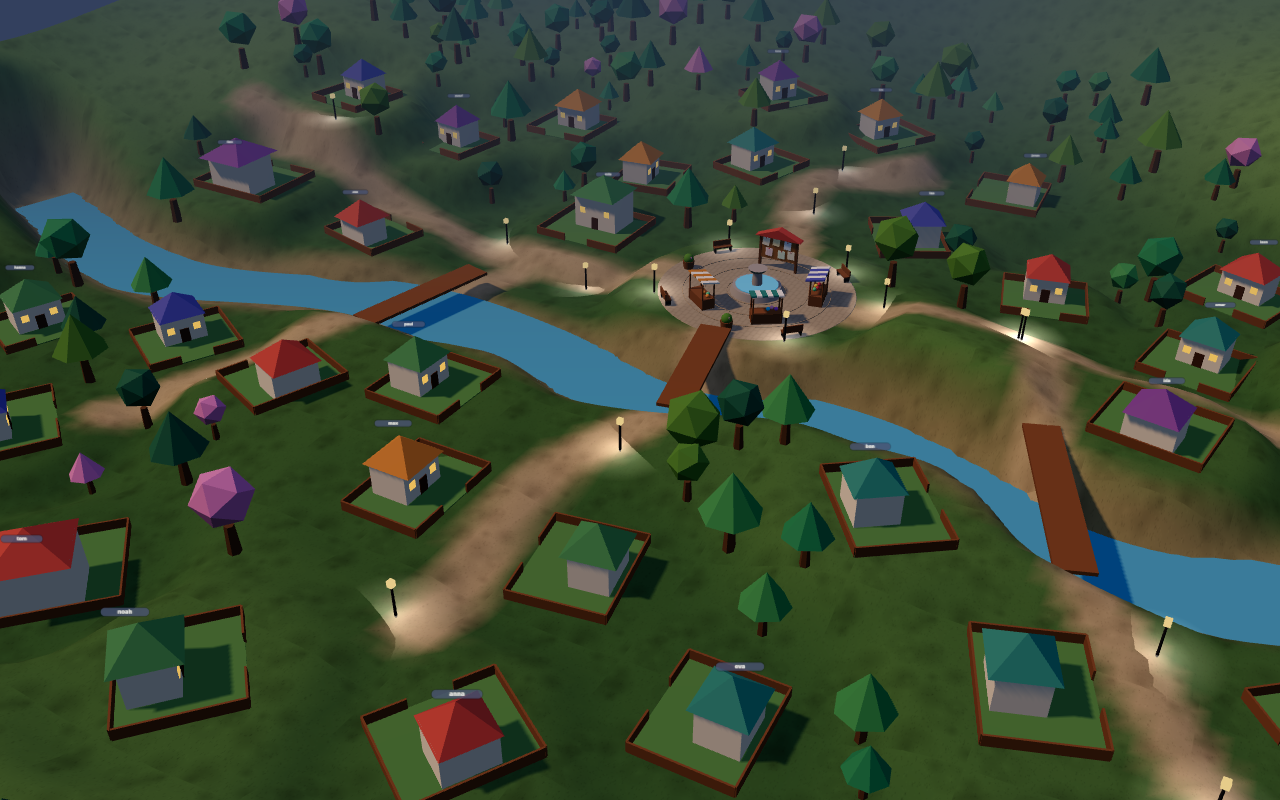
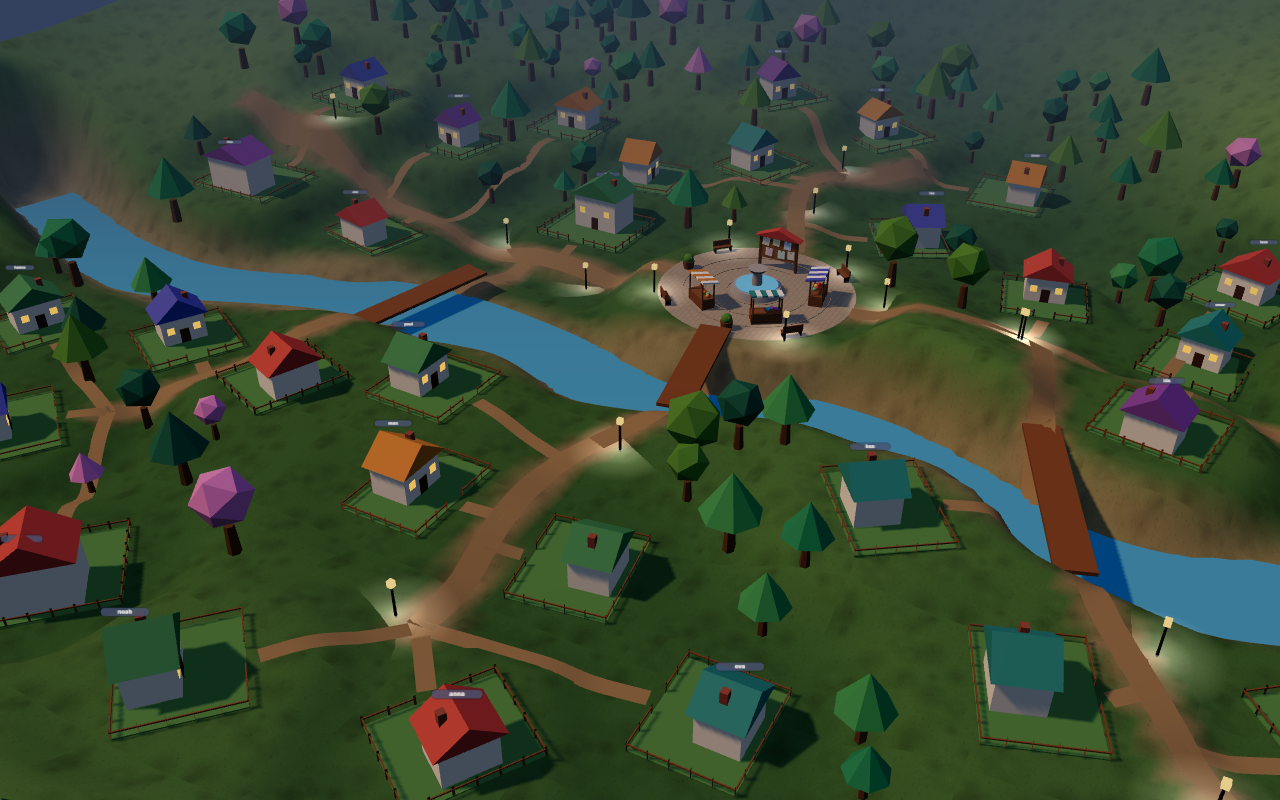
Stufe 1b L.5 Teil und Wege: Satteldach, Zaun mit Tor, Gartenweg, dunklere Erdwege
- render/house.ts: Satteldach mit Überstand und Schornstein, Zaun aus Pfosten und Latte mit 1,6 m Tor, Gartenweg vom Tor zur Straße
- Wege: dunkler, 1,6 m breit, mit Erdtextur (dirtTexture)
- 220 Vitest-Tests grün; Galerie: 30 Bilder neu

diff --git a/web/src/render/village.ts b/web/src/render/village.ts
@@ -9,7 +9,9 @@ import type { Point2 } from '../world/geometry';
 import { laneDistance } from '../world/scatter';
 import { buildNature } from './nature';
 import { buildPlaza } from './plaza';
-import { grassTexture } from './textures';
+import { dirtTexture, grassTexture } from './textures';
+import { chimney, fenceGeometry, gableRoof, gardenPathGeometry } from './house';
+import { mergeGeometries } from 'three/addons/utils/BufferGeometryUtils.js';
 
 const MAT = {
   ground: new THREE.MeshStandardMaterial({ vertexColors: true, flatShading: true, roughness: 0.9 }),
@@ -77,7 +79,8 @@ function terrainMesh(layout: Layout): THREE.Mesh {
   const low = new THREE.Color('#4e7a45');
   const high = new THREE.Color('#7aa35c');
   const bank = new THREE.Color('#a99b72');
-  const pathCol = new THREE.Color('#c9b48c');
+  // darker, earthier path colour; paths are narrower than before (cozy citybuilder look)
+  const pathCol = new THREE.Color('#a8926c');
   const tmp = new THREE.Color();
   const t = layout.terrain;
   for (let i = 0; i < pos.count; i++) {
@@ -89,7 +92,7 @@ function terrainMesh(layout: Layout): THREE.Mesh {
     const rd = t.riverDistance(x, z);
     tmp.lerp(bank, Math.min(1, Math.max(0, (6.5 - rd) / 2.5)) * 0.85);
     // paths painted into the ground: soft edge, no floating strip (review befund 4)
-    const onPath = Math.min(1, Math.max(0, (2.4 - laneDistance(layout, x, z)) / 1.2));
+    const onPath = Math.min(1, Math.max(0, (1.7 - laneDistance(layout, x, z)) / 0.8));
     tmp.lerp(pathCol, onPath);
     col[i * 3] = tmp.r;
     col[i * 3 + 1] = tmp.g;
@@ -205,30 +208,16 @@ function plotGroup(p: Plot, member: VillageMember | undefined, own: boolean): TH
     win.position.set(wx, bh * 0.55, front);
     house.add(win);
   }
-  const roofMat = new THREE.MeshStandardMaterial({
-    color: ROOF_COLORS[p.index % ROOF_COLORS.length],
-    flatShading: true,
-    roughness: 0.8,
-  });
-  const roof = new THREE.Mesh(new THREE.ConeGeometry(Math.max(bw, bd) * 0.75, 1.6, 4), roofMat);
-  roof.position.y = bh + 0.8;
-  roof.rotation.y = Math.PI / 4;
-  roof.castShadow = true;
+  const roof = gableRoof(bw, bd, 1.3 + ((p.index * 13) % 5) * 0.1, ROOF_COLORS[p.index % ROOF_COLORS.length]);
+  roof.position.y = bh;
   house.add(roof);
+  house.add(chimney(bw, bh, 1.3));
   g.add(house);
 
-  // fence along the front and sides, gate at the front
-  const fenceH = 0.7;
-  const addFence = (x: number, z: number, w: number, d: number) => {
-    const f = new THREE.Mesh(new THREE.BoxGeometry(w, fenceH, d), MAT.wood);
-    f.position.set(x, fenceH / 2, z);
-    g.add(f);
-  };
-  addFence(0, -p.d / 2, p.w, 0.12);
-  addFence(-p.w / 2, 0, 0.12, p.d);
-  addFence(p.w / 2, 0, 0.12, p.d);
-  addFence(-p.w / 4 - 0.6, p.d / 2, p.w / 2 - 1.2, 0.12);
-  addFence(p.w / 4 + 0.6, p.d / 2, p.w / 2 - 1.2, 0.12);
+  // post-and-rail fence with a 1.6 m gate in front, merged into one mesh (LOOK §6)
+  const fence = new THREE.Mesh(fenceGeometry(p.w, p.d), MAT.wood);
+  fence.castShadow = true;
+  g.add(fence);
 
   return g;
 }
@@ -247,7 +236,27 @@ export function buildVillage(
   root.add(terrainMesh(layout));
   root.add(riverMesh(layout.terrain.river));
 
-  // paths are painted into the terrain (see terrainMesh), so they need no floating strips
+  // lanes: a thin dirt strip on the ground (1.6 m), textured, lifted 5 cm; the colour in the
+  // terrain (see terrainMesh) underneath matches, so the edge is soft
+  const dirt = new THREE.MeshStandardMaterial({
+    map: dirtTexture(),
+    color: '#b8a07a',
+    roughness: 0.95,
+    polygonOffset: true,
+    polygonOffsetFactor: -2,
+    polygonOffsetUnits: -4,
+  });
+  for (const pts of layout.map.lanes) {
+    const curve = new THREE.CatmullRomCurve3(
+      pts.map((p) => new THREE.Vector3(p.x, 0, p.z)),
+      false,
+      'centripetal',
+    );
+    const samples = curve
+      .getSpacedPoints(Math.ceil(curve.getLength() / 0.7))
+      .map((v) => ({ x: v.x, z: v.z }));
+    root.add(ribbon(samples, 1.6, (x, z) => layout.terrain.groundHeight(x, z) + 0.05, dirt));
+  }
 
   // plaza: paving, fountain, quest board, stalls, benches (render/plaza.ts)
   root.add(buildPlaza(layout));
@@ -264,6 +273,13 @@ export function buildVillage(
   for (const p of layout.plots) {
     root.add(plotGroup(p, byPlot.get(p.index), p.index === ownPlotIndex));
   }
+  // garden paths from each gate to its lane: one merged mesh for the whole village
+  const gardens = layout.plots.map((p) =>
+    gardenPathGeometry(p.gate, p.link, 1.0, (x, z) => layout.terrain.groundHeight(x, z)),
+  );
+  const gardenMesh = new THREE.Mesh(mergeGeometries(gardens), dirt);
+  gardenMesh.receiveShadow = true;
+  root.add(gardenMesh);
   root.add(buildNature(layout));
   return root;
 }

diff --git a/web/src/render/house.ts b/web/src/render/house.ts
@@ -1,0 +1,130 @@
+/**
+ * House parts (LOOK §6): gable roof with overhang and chimney, post-and-rail fence with a 1.6 m
+ * gate, and the garden path from the gate to the lane. Placeholder geometry; merged per plot so
+ * that a village of 34 plots needs few draw calls.
+ */
+import * as THREE from 'three';
+import { mergeGeometries } from 'three/addons/utils/BufferGeometryUtils.js';
+
+const FENCE_HEIGHT = 0.7;
+const POST_STEP = 1.2;
+const GATE_HALF = 0.8; // 1.6 m opening in the middle of the front
+
+/** Gable roof: a triangle prism along z, with 0.35 m overhang on both sides. */
+export function gableRoof(bw: number, bd: number, rise: number, colour: string): THREE.Mesh {
+  const half = bw / 2 + 0.35;
+  const shape = new THREE.Shape();
+  shape.moveTo(-half, 0);
+  shape.lineTo(0, rise);
+  shape.lineTo(half, 0);
+  shape.lineTo(-half, 0);
+  const depth = bd + 0.6;
+  const geo = new THREE.ExtrudeGeometry(shape, { depth, bevelEnabled: false });
+  geo.translate(0, 0, -depth / 2);
+  const mesh = new THREE.Mesh(
+    geo,
+    new THREE.MeshStandardMaterial({ color: colour, roughness: 0.8, flatShading: true }),
+  );
+  mesh.castShadow = true;
+  return mesh;
+}
+
+/** Chimney on one roof slope (LOOK §6: #9a5a48, 0,42 x 1,0). */
+export function chimney(bw: number, bh: number, rise: number): THREE.Mesh {
+  const mesh = new THREE.Mesh(
+    new THREE.BoxGeometry(0.42, 1.0, 0.42),
+    new THREE.MeshStandardMaterial({ color: '#9a5a48', roughness: 0.9 }),
+  );
+  mesh.position.set(bw * 0.25, bh + rise * 0.5 + 0.2, 0);
+  mesh.castShadow = true;
+  return mesh;
+}
+
+/** A box between two ground points, centred on the segment, lifted by `y` (merged later). */
+function beam(
+  ax: number,
+  az: number,
+  bx: number,
+  bz: number,
+  width: number,
+  height: number,
+  y: number,
+): THREE.BufferGeometry {
+  const dx = bx - ax;
+  const dz = bz - az;
+  const len = Math.hypot(dx, dz);
+  const geo = new THREE.BoxGeometry(width, height, len);
+  geo.rotateY(Math.atan2(dx, dz));
+  geo.translate((ax + bx) / 2, y, (az + bz) / 2);
+  return geo;
+}
+
+/**
+ * Fence around a plot in plot-local coordinates: front side with the gate opening, back and sides
+ * closed. Posts every 1.2 m and one rail at 0.5 m (LOOK §6: never a solid wall).
+ */
+export function fenceGeometry(w: number, d: number): THREE.BufferGeometry {
+  const runs: Array<[number, number, number, number]> = [
+    [-w / 2, d / 2, -GATE_HALF, d / 2], // front, left of the gate
+    [GATE_HALF, d / 2, w / 2, d / 2], // front, right of the gate
+    [-w / 2, -d / 2, w / 2, -d / 2], // back
+    [-w / 2, -d / 2, -w / 2, d / 2], // left side
+    [w / 2, -d / 2, w / 2, d / 2], // right side
+  ];
+  const parts: THREE.BufferGeometry[] = [];
+  for (const [ax, az, bx, bz] of runs) {
+    const len = Math.hypot(bx - ax, bz - az);
+    const steps = Math.max(1, Math.round(len / POST_STEP));
+    for (let i = 0; i <= steps; i++) {
+      const t = i / steps;
+      const x = ax + (bx - ax) * t;
+      const z = az + (bz - az) * t;
+      parts.push(beam(x, z, x, z, 0.13, FENCE_HEIGHT, FENCE_HEIGHT / 2));
+    }
+    parts.push(beam(ax, az, bx, bz, 0.07, 0.08, 0.5));
+  }
+  return mergeGeometries(parts);
+}
+
+/**
+ * Garden path as a flat ribbon from `from` to `to` (world coordinates), following the ground.
+ * Returned as one geometry so that all garden paths of a village merge into one mesh.
+ */
+export function gardenPathGeometry(
+  from: { x: number; z: number },
+  to: { x: number; z: number },
+  width: number,
+  heightAt: (x: number, z: number) => number,
+): THREE.BufferGeometry {
+  const steps = Math.max(2, Math.round(Math.hypot(to.x - from.x, to.z - from.z) / 0.8));
+  const verts: number[] = [];
+  const idx: number[] = [];
+  const dx = to.x - from.x;
+  const dz = to.z - from.z;
+  const l = Math.hypot(dx, dz) || 1;
+  const nx = -dz / l;
+  const nz = dx / l;
+  for (let i = 0; i <= steps; i++) {
+    const t = i / steps;
+    const cx = from.x + dx * t;
+    const cz = from.z + dz * t;
+    const h = heightAt(cx, cz) + 0.05;
+    verts.push(
+      cx + (nx * width) / 2,
+      h,
+      cz + (nz * width) / 2,
+      cx - (nx * width) / 2,
+      h,
+      cz - (nz * width) / 2,
+    );
+    if (i > 0) {
+      const a = (i - 1) * 2;
+      idx.push(a, a + 2, a + 1, a + 1, a + 2, a + 3);
+    }
+  }
+  const geo = new THREE.BufferGeometry();
+  geo.setAttribute('position', new THREE.Float32BufferAttribute(verts, 3));
+  geo.setIndex(idx);
+  geo.computeVertexNormals();
+  return geo;
+}

diff --git a/web/src/render/textures.ts b/web/src/render/textures.ts
@@ -79,3 +79,23 @@ export const pavingTexture = (): THREE.CanvasTexture =>
       cx.fillRect(rnd() * 256, rnd() * 256, 3, 3);
     }
   });
+
+/** Dirt path: packed earth with darker speckles and a few pebbles, for the lanes and garden paths. */
+export const dirtTexture = (): THREE.CanvasTexture =>
+  canvasTexture(256, (cx, rnd) => {
+    cx.fillStyle = '#d6d0c4';
+    cx.fillRect(0, 0, 256, 256);
+    for (let i = 0; i < 900; i++) {
+      cx.fillStyle = rnd() < 0.6 ? 'rgba(90,70,40,0.18)' : 'rgba(255,255,255,0.20)';
+      const r = 0.6 + rnd() * 1.8;
+      cx.beginPath();
+      cx.arc(rnd() * 256, rnd() * 256, r, 0, Math.PI * 2);
+      cx.fill();
+    }
+    for (let i = 0; i < 26; i++) {
+      cx.fillStyle = 'rgba(120,110,100,0.35)';
+      cx.beginPath();
+      cx.ellipse(rnd() * 256, rnd() * 256, 2 + rnd() * 2, 1.5 + rnd(), rnd() * Math.PI, 0, Math.PI * 2);
+      cx.fill();
+    }
+  });

diff --git a/docs/PLAN.md b/docs/PLAN.md
@@ -207,3 +207,5 @@ Ziel: Schüler kaufen Deko und gestalten ihr Grundstück; Mitschüler sehen es.
 | 17.10.2026 | Galerie | 30 Bilder neu, Stand mit Bäumen und Laternen, siehe `Konzept/Galerie/2026-10-17/`. Draw Calls der Übersicht bei rund 400 (Welt ~240), Ziel < 60 bleibt L.9 |
 | 17.10.2026 | L.7 gebaut | `render/plaza.ts`: Pflaster mit Ringmuster, Brunnen mit leuchtendem Wasser, Aufgabentafel mit rotem Dach und sechs Zetteln, drei Stände mit gestreifter Markise, vier Bänke, zwei Kübel. Dazu Laternen am Platz (aus L.6) und leuchtende Fenster mit Tür an jedem Haus. Die Lehrkraft prüft die Optik in L.11 |
 | 17.10.2026 | Texturen und Gras | `render/textures.ts`: prozedurale Graustufen-Texturen (Gras mit Körnung, Pflaster mit Fugen), multipliziert mit den Vertex-Farben. Gelände mit glatten Normalen statt facettiert, 140 Segmente. Die Galerie zeigt wieder die Farben aus LOOK §4 |
+| 17.10.2026 | L.5 teilweise | `render/house.ts`: Satteldach mit Überstand und Schornstein statt Pyramide, Zaun aus Pfosten und Latte mit 1,6 m Tor (nie als Wand), Gartenweg vom Tor zur Straße (ein Mesh für das ganze Dorf). Offen: Vergabe von innen nach außen, Hangregel mit Böschung, freie Plätze als Bauplatz |
+| 17.10.2026 | L.3 Wege | Wege dunkler (`#a8926c` Vertex-Farbe), schmaler (1,6 m), mit eigener Erdtextur (`dirtTexture`) als dünner Streifen auf dem Gelände |
